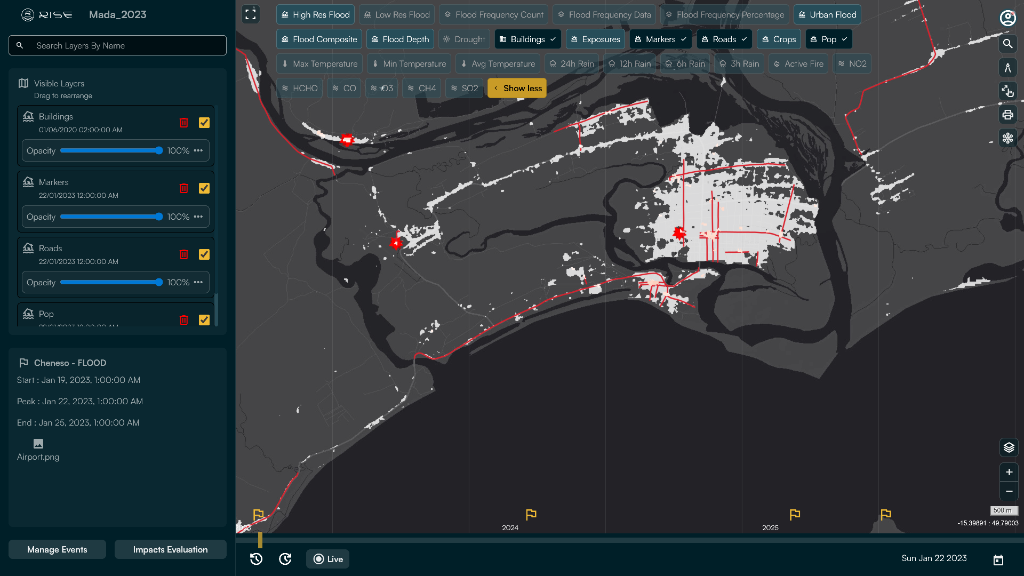
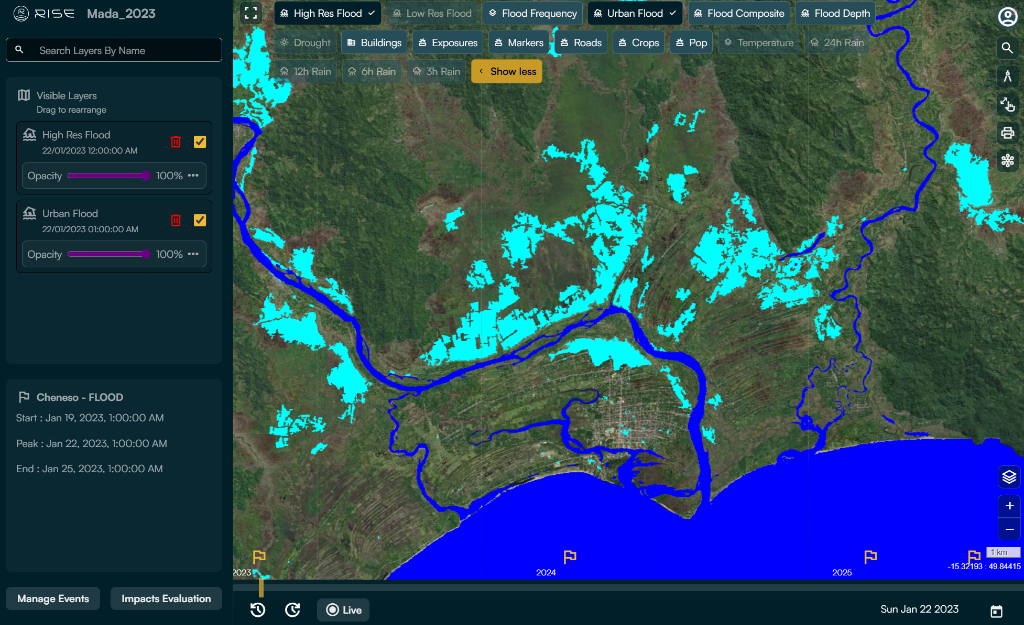
feat: implement public-facing navigation, footer, and platform feature showcase pages with associated assets

diff --git a/src/app/components/public-footer/public-footer.component.css b/src/app/components/public-footer/public-footer.component.css
@@ -1,6 +1,6 @@
 .public-footer {
-  background-color: #1c3d4a;
-  color: rgba(255, 255, 255, 0.8);
+  background-color: #ffffff;
+  color: #284e59;
   font-family: 'Satoshi Variable', sans-serif;
   font-size: 14px;
 }
@@ -8,8 +8,9 @@
 .public-footer__inner {
   max-width: 1200px;
   margin: 0 auto;
-  padding: 60px 24px 40px;
+  padding: 60px 12px 40px;
   display: flex;
+  justify-content: space-between;
   gap: 48px;
   align-items: flex-start;
 }
@@ -17,19 +18,22 @@
 .public-footer__brand {
   flex-shrink: 0;
   max-width: 220px;
+  text-align: left;
 }
 
 .public-footer__logo {
-  height: 36px;
+  height: 28px;
   margin-bottom: 16px;
   display: block;
+  object-fit: contain;
 }
 
 .public-footer__brand p {
   font-size: 13px;
-  color: rgba(255, 255, 255, 0.55);
+  color: #284e59;
   line-height: 1.5;
   margin: 0;
+  text-align: left;
 }
 
 /* COLUMNS */
@@ -38,6 +42,11 @@
   gap: 48px;
   flex: 1;
   justify-content: flex-end;
+  align-items: stretch;
+}
+
+.public-footer__col {
+  text-align: left;
 }
 
 .public-footer__col h4 {
@@ -46,7 +55,7 @@
   font-weight: 700;
   letter-spacing: 1.5px;
   text-transform: uppercase;
-  color: rgba(255, 255, 255, 0.45);
+  color: #284e59;
   margin: 0 0 16px;
 }
 
@@ -61,11 +70,11 @@
 
 .public-footer__col ul li {
   line-height: 1.5;
-  color: rgba(255, 255, 255, 0.75);
+  color: #284e59;
 }
 
 .public-footer__col ul li a {
-  color: rgba(255, 255, 255, 0.75);
+  color: #284e59;
   text-decoration: none;
   transition: color 0.15s;
 }
@@ -74,16 +83,23 @@
   color: #efba35;
 }
 
+/* VERTICAL DIVIDERS */
+.public-footer__divider {
+  width: 2px;
+  background-color: #424b5a;
+  align-self: stretch;
+}
+
 /* BOTTOM */
 .public-footer__bottom {
-  border-top: 1px solid rgba(255, 255, 255, 0.1);
+  border-top: 1px solid rgba(40, 78, 89, 0.15);
   padding: 16px 24px;
   text-align: center;
 }
 
 .public-footer__bottom p {
   font-size: 12px;
-  color: rgba(255, 255, 255, 0.4);
+  color: #284e59;
   margin: 0;
 }
 
@@ -97,5 +113,9 @@
     flex-wrap: wrap;
     gap: 32px;
     justify-content: flex-start;
+  }
+
+  .public-footer__divider {
+    display: none;
   }
 }

diff --git a/src/app/components/public-footer/public-footer.component.html b/src/app/components/public-footer/public-footer.component.html
@@ -2,7 +2,7 @@
   <div class="public-footer__inner">
 
     <div class="public-footer__brand">
-      <img src="/assets/rise-assets/logo-white-horizontal.svg" alt="RISE" class="public-footer__logo" />
+      <img src="/assets/rise-assets/rise-logo-text-dark.png" alt="RISE" class="public-footer__logo" />
       <p>RISE. Remote Imaging Support for Emergencies</p>
     </div>
 
@@ -17,26 +17,30 @@
         </ul>
       </div>
 
+      <div class="public-footer__divider"></div>
+
       <div class="public-footer__col">
         <h4>DOCUMENTATION</h4>
         <ul>
           <li><a href="https://github.com/wasdi-cloud" target="_blank" rel="noopener">GitHub repository</a></li>
-          <li><a href="#">Documentation</a></li>
-          <li><a href="#">Support</a></li>
+          <li><a href="https://rise-docs.readthedocs.io/en/latest/" target="_blank" rel="noopener">Documentation</a></li>
+          <li><a (click)="navigateRoute('/contact')" style="cursor:pointer;">Support</a></li>
           <li><a href="#">Privacy Policy</a></li>
-          <li><a href="#">F.A.Q.</a></li>
+          <li><a (click)="navigateToFaq()" style="cursor:pointer;">F.A.Q.</a></li>
         </ul>
       </div>
+
+      <div class="public-footer__divider"></div>
 
       <div class="public-footer__col">
         <h4>NAVIGATION</h4>
         <ul>
-          <li><a routerLink="/">Homepage</a></li>
-          <li><a routerLink="/platform">Platform</a></li>
-          <li><a routerLink="/impact-stories">Case Studies</a></li>
-          <li><a routerLink="/pricing">Pricing</a></li>
-          <li><a routerLink="/about">About Us</a></li>
-          <li><a routerLink="/contact">Contact Us</a></li>
+          <li><a (click)="navigateRoute('/')" style="cursor:pointer;">Homepage</a></li>
+          <li><a (click)="navigateRoute('/platform')" style="cursor:pointer;">Platform</a></li>
+          <li><a (click)="navigateRoute('/impact-stories')" style="cursor:pointer;">Case Studies</a></li>
+          <li><a (click)="navigateRoute('/pricing')" style="cursor:pointer;">Pricing</a></li>
+          <li><a (click)="navigateRoute('/about')" style="cursor:pointer;">About Us</a></li>
+          <li><a (click)="navigateRoute('/contact')" style="cursor:pointer;">Contact Us</a></li>
         </ul>
       </div>
 

diff --git a/src/app/components/public-footer/public-footer.component.ts b/src/app/components/public-footer/public-footer.component.ts
@@ -1,5 +1,5 @@
 import { Component } from '@angular/core';
-import { RouterLink } from '@angular/router';
+import { Router, RouterLink } from '@angular/router';
 
 @Component({
   selector: 'public-footer',
@@ -8,4 +8,24 @@ import { RouterLink } from '@angular/router';
   templateUrl: './public-footer.component.html',
   styleUrl: './public-footer.component.css',
 })
-export class PublicFooterComponent {}
+export class PublicFooterComponent {
+
+  constructor(private router: Router) {}
+
+  navigateRoute(route: string) {
+    this.router.navigate([route]).then(() => {
+      window.scrollTo(0, 0);
+    });
+  }
+
+  navigateToFaq() {
+    this.router.navigate(['/platform']).then(() => {
+      setTimeout(() => {
+        const faqEl = document.getElementById('faq-section');
+        if (faqEl) {
+          faqEl.scrollIntoView({ behavior: 'smooth' });
+        }
+      }, 300);
+    });
+  }
+}

diff --git a/src/app/components/public-navbar/public-navbar.component.css b/src/app/components/public-navbar/public-navbar.component.css
@@ -21,7 +21,7 @@
   display: flex;
   align-items: center;
   justify-content: space-between;
-  padding: 0 24px;
+  padding: 0 12px;
   gap: 16px;
 }
 

diff --git a/src/app/views/platform/platform.component.html b/src/app/views/platform/platform.component.html
@@ -162,7 +162,7 @@
   </section>
 
   <!-- FAQ -->
-  <section class="faq-section">
+  <section id="faq-section" class="faq-section">
     <h2>F.A.Q.</h2>
     <div class="faq-list">
       <div class="faq-item" *ngFor="let faq of m_aoFaqs; let i = index">

diff --git a/src/app/views/public-home/public-home.component.css b/src/app/views/public-home/public-home.component.css
@@ -515,6 +515,7 @@ details[open] summary.feature-card-title::after {
   position: relative;
   max-height: 100%;
   object-fit: cover;
+  border-radius: 10px;
 }
 
 .plugins-list {
@@ -575,6 +576,7 @@ details[open] summary.feature-card-title::after {
   align-self: stretch;
   position: relative;
   font-weight: 700;
+  color: #284e59;
 }
 
 .case-study-section {

diff --git a/src/app/views/public-home/public-home.component.ts b/src/app/views/public-home/public-home.component.ts
@@ -38,7 +38,7 @@ export class PublicHomeComponent {
         this.m_sSelectedPluginImage = basePath + 'plugin_impacts.png';
         break;
       case 'Rain Observations':
-        this.m_sSelectedPluginImage = basePath + 'plugin_rain.png';
+        this.m_sSelectedPluginImage = basePath + 'plugin_rain.jpg';
         break;
       case 'Land Surface Temperature':
         this.m_sSelectedPluginImage = basePath + 'plugin_temperature.png';